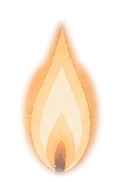
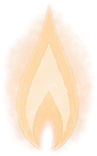
Nouvelle illustration de la bougie de nuit (accueil et En famille), même animation de la flamme ; 10 histoires de musique et d'art
Claude-Session: https://claude.ai/code/session_0196ydQFmaQnBobAw6Q2y82i

diff --git a/src/js/app.js b/src/js/app.js
@@ -411,7 +411,7 @@
     var nuit = estNuit(), m = nuit ? 'nuit' : 'jour';
     // La flamme est détourée à part (le fond de l'image a été comblé dessous) : elle se balance depuis la mèche et frémit,
     // et sa lumière respire au même rythme.
-    var f = nuit ? { l: 47.16, t: 16.95, w: 10.31, h: 23.05, oy: 88.4 } : { l: 47.85, t: 37.09, w: 6.88, h: 17.32, oy: 86.5 };
+    var f = nuit ? { l: 48.64, t: 18.29, w: 8.0, h: 19.02, oy: 91 } : { l: 47.85, t: 37.09, w: 6.88, h: 17.32, oy: 86.5 };
     return '<div class="respiration bougie ' + m + '" aria-hidden="true"><img src="img/bougie-' + m + '.webp" alt="" decoding="async">' +
       '<span class="b-halo" style="left:' + (f.l + f.w / 2).toFixed(2) + '%;top:' + (f.t + f.h * .55).toFixed(2) + '%"></span>' +
       '<span class="b-flamme" style="left:' + f.l + '%;top:' + f.t + '%;width:' + f.w + '%;height:' + f.h + '%;transform-origin:50% ' + f.oy + '%">' +
